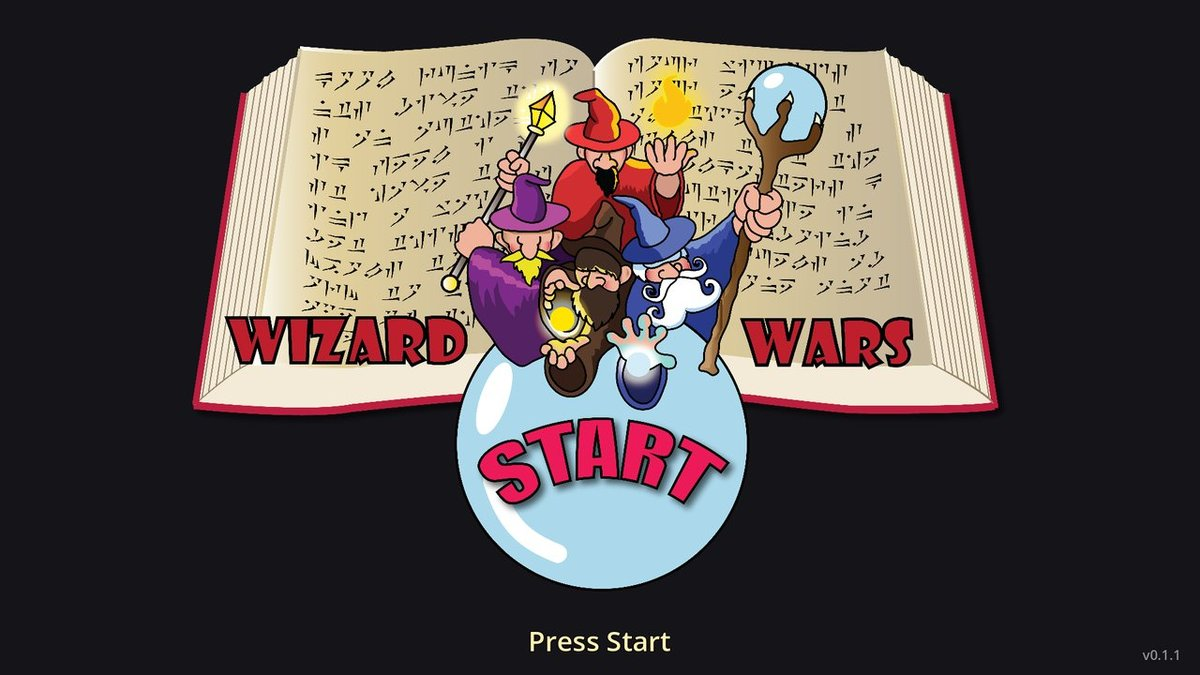
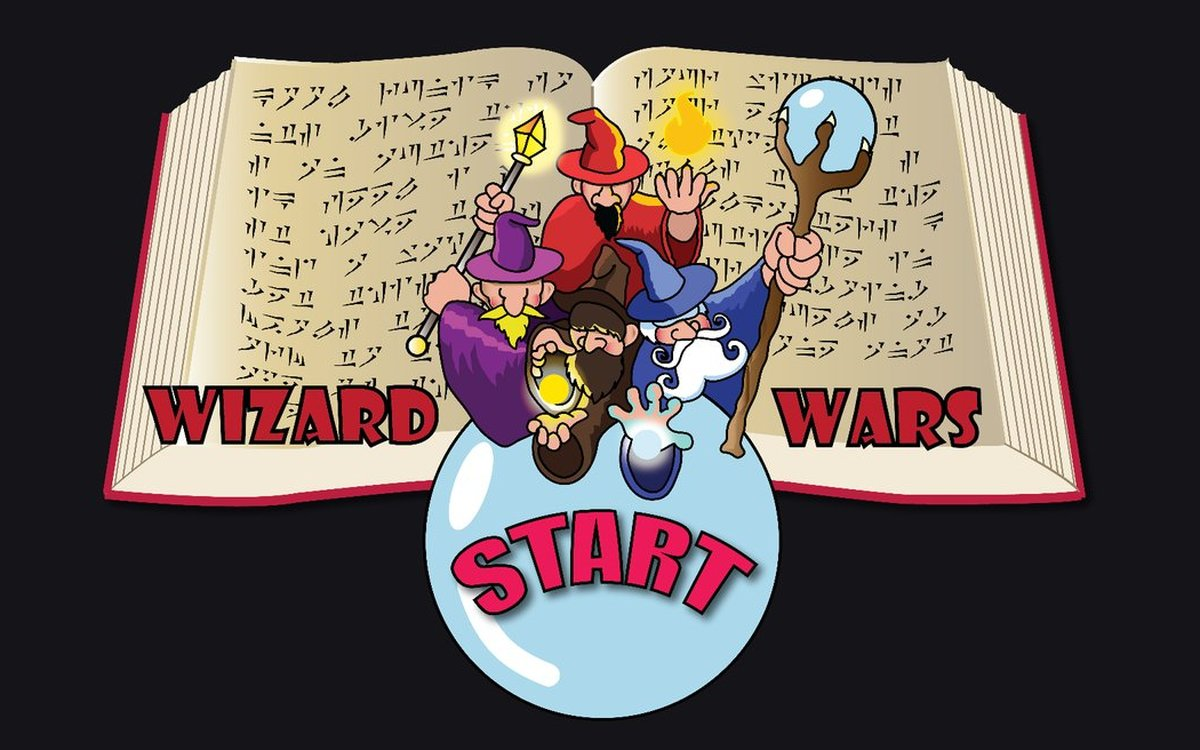
Even project cards, tighter copy, and a big Submit your fighter on DrawFight's page
- Every card's tagline and description cut to a line or two, and the buttons pinned to the
  bottom, so cards in a row are the same height with their buttons lined up.
- "Submit your fighter" moves off the DrawFight card to its game page: a second big button
  under Download, and a notebook-paper "Be in the game!" band with a link to the drawing
  guide. Driven by a new `feature` field on a game.
- Wizard Wars' title picture is cropped above its "Press Start" text.

diff --git a/src/data/projects.ts b/src/data/projects.ts
@@ -58,6 +58,16 @@ export interface GameInfo {
   platform?: string
   /** Not downloadable yet: no download button or release history, a "Coming soon" note instead. */
   comingSoon?: boolean
+  /** A second headline action for the game page: a big button under Download, and a band
+   *  explaining it below the intro. */
+  feature?: {
+    title: string
+    text: string
+    href: string
+    label: string
+    emoji: string
+    more?: { href: string; label: string }
+  }
 }
 
 export const gamePath = (project: Project) => `/games/${project.id}`
@@ -71,14 +81,23 @@ export const projects: Project[] = [
     name: 'DrawFight',
     tagline: "A platform fighter where every character is a kid's drawing.",
     description:
-      'A local-multiplayer platform fighter with Smash-style percent, knockback, and ' +
-      'stocks. Every fighter starts as a drawing on paper, cut into body parts and ' +
-      'rigged to a shared skeleton, so the original linework is what moves on screen.',
+      'Smash-style percent, knockback and stocks, with every fighter cut from a paper ' +
+      'drawing and animated line for line.',
     tech: ['Godot 4.5', 'C#', '.NET 9'],
     repoUrl: 'https://github.com/eclancy/DrawFight',
     game: {
       repo: 'DrawFight',
       players: '1–2 players, local',
+      feature: {
+        title: 'Be in the game!',
+        text:
+          'Draw your own fighter on paper, snap a photo and send it in. Fighters sent in ' +
+          'can end up in DrawFight: Triguy got in that way.',
+        href: '/draw',
+        label: 'Submit your fighter',
+        emoji: '✏',
+        more: { href: '/draw/guide', label: 'Read the drawing guide first' },
+      },
       about: [
         'You draw a character on paper. It gets cut into pieces, hung on a skeleton, and ' +
           "put in a fighting game. Then it runs, jumps, and knocks other people's drawings " +
@@ -96,11 +115,6 @@ export const projects: Project[] = [
         href: 'https://ecec.dev/drawfight/download',
         label: 'Download & play',
         emoji: '🎮',
-      },
-      {
-        href: 'https://ecec.dev/draw',
-        label: 'Submit your fighter!',
-        emoji: '✏',
       },
     ],
     images: [
@@ -133,11 +147,10 @@ export const projects: Project[] = [
   {
     id: 'drawpets',
     name: 'DrawPets',
-    tagline: 'Draw a creature, part by part, then watch it come alive and look after it.',
+    tagline: 'Draw a creature, then watch it come alive.',
     description:
-      'A virtual-pet game where every pet is a creature a kid drew inside the game, one ' +
-      'part at a time. Legs step, tails wag and eyes blink because of the parts it has, ' +
-      'and then you feed it, play with it, decorate its home and give it a bath.',
+      'A virtual pet you draw part by part, then feed, play with and give a home of its ' +
+      'own.',
     tech: ['Godot 4.5', 'GDScript', 'Android'],
     game: {
       repo: 'DrawPets',
@@ -186,11 +199,10 @@ export const projects: Project[] = [
   {
     id: 'wizard-survivors',
     name: 'Wizard Survivors',
-    tagline: 'A 2D roguelite auto-shooter built in Godot 4 with C#.',
+    tagline: 'A roguelite auto-shooter in the Vampire Survivors mold.',
     description:
-      'A fast-paced survival game inspired by Vampire Survivors. Choose from 30 elemental ' +
-      'spells and upgrades to shape your wizard, then survive increasingly difficult waves ' +
-      'of enemies.',
+      'Build your wizard from 30 spells and survive the horde. Every sprite and sound is ' +
+      'made by code.',
     tech: ['Godot 4.5', 'C#', '.NET 9'],
     repoUrl: 'https://github.com/eclancy/WizardSurvivors',
     game: {
@@ -239,11 +251,10 @@ export const projects: Project[] = [
   {
     id: 'wizard-wars',
     name: 'Wizard Wars',
-    tagline: 'A local multiplayer wizard battle arena for up to 4 players.',
+    tagline: 'A wizard battle arena for up to four players.',
     description:
-      'A local party game for up to four players. Choose a wizard and battle with fire, ' +
-      'ice, earth, or lightning attacks across several arena stages. Each element can ' +
-      'counter another, rewarding quick decisions and teamwork.',
+      'Fire, frost, earth or lightning: be the last wizard standing, or team up in Red ' +
+      'vs Blue.',
     tech: ['Godot 4.5', 'C#', '.NET 9'],
     repoUrl: 'https://github.com/eclancy/WizardWars',
     game: {
@@ -292,10 +303,9 @@ export const projects: Project[] = [
   {
     id: 'erics-miniatures',
     name: "Eric's Miniatures",
-    tagline: 'A personal arts & crafts showcase site.',
+    tagline: 'A showcase for hand-painted miniatures.',
     description:
-      'A website that shares hand-painted miniatures and other handmade art projects. ' +
-      'Built with React, TypeScript, Material UI, and SASS.',
+      'Painted miniatures, custom terrain and other handmade art, on a site of its own.',
     tech: ['React', 'TypeScript', 'Material UI', 'SASS'],
     repoUrl: 'https://github.com/eclancy/EricsMiniatures',
     liveUrl: 'https://ericsminiatures.com',

diff --git a/src/pages/GamePage.tsx b/src/pages/GamePage.tsx
@@ -88,9 +88,6 @@ export function GamePage({ project }: { project: Project & { game: GameInfo } })
   const shots = images.slice(1)
   const [expanded, setExpanded] = useState<number | null>(null)
   const latest = releases.state === 'ok' ? releases.list[0] : undefined
-  const extras = (project.callsToAction ?? []).filter(
-    (c) => !c.href.endsWith('/download'),
-  )
 
   useEffect(() => {
     document.title = `${project.name} | ECEC`
@@ -171,16 +168,25 @@ export function GamePage({ project }: { project: Project & { game: GameInfo } })
                     : ' '}
               </p>
             )}
-            {extras.map((cta) => (
+            {game.feature && (
               <a
-                key={cta.href}
-                href={cta.href}
-                className="inline-flex w-fit items-center gap-2 rounded-lg border border-cyan-400/60 px-3 py-2 text-sm font-medium text-cyan-200 transition hover:border-cyan-300 hover:bg-cyan-400/10 focus-visible:outline focus-visible:outline-2 focus-visible:outline-offset-2 focus-visible:outline-cyan-400"
+                href={game.feature.href}
+                className="ecec-cta-alt group flex items-center justify-center gap-3 rounded-xl px-5 py-4 text-lg font-extrabold tracking-wide text-white transition hover:-translate-y-0.5 hover:scale-[1.02] focus-visible:outline focus-visible:outline-2 focus-visible:outline-offset-2 focus-visible:outline-cyan-300 sm:max-w-sm"
               >
-                {cta.emoji && <span aria-hidden="true">{cta.emoji}</span>}
-                {cta.label} →
+                <span aria-hidden="true" className="ecec-cta-emoji text-2xl">
+                  {game.feature.emoji}
+                </span>
+                <span className="drop-shadow-[0_1px_2px_rgba(0,0,0,0.5)]">
+                  {game.feature.label}
+                </span>
+                <span
+                  aria-hidden="true"
+                  className="text-xl transition-transform group-hover:translate-x-1"
+                >
+                  →
+                </span>
               </a>
-            ))}
+            )}
           </div>
           <ImageCarousel
             images={images}
@@ -188,6 +194,36 @@ export function GamePage({ project }: { project: Project & { game: GameInfo } })
             className="rounded-2xl border border-slate-800 shadow-2xl shadow-violet-950/40"
           />
         </section>
+
+        {game.feature && (
+          <section
+            aria-labelledby="feature-heading"
+            className="ecec-paper mb-12 flex flex-col items-start gap-5 rounded-2xl py-8 pl-12 pr-7 text-slate-900 shadow-2xl shadow-black/40 sm:flex-row sm:items-center sm:justify-between sm:pl-14"
+          >
+            <div className="max-w-xl">
+              <h2 id="feature-heading" className="text-3xl font-extrabold">
+                <span aria-hidden="true">{game.feature.emoji}</span> {game.feature.title}
+              </h2>
+              <p className="mt-2 text-base leading-relaxed text-slate-700">
+                {game.feature.text}
+              </p>
+              {game.feature.more && (
+                <a
+                  href={game.feature.more.href}
+                  className="mt-3 inline-block text-sm font-semibold text-blue-700 underline-offset-4 hover:underline"
+                >
+                  {game.feature.more.label} →
+                </a>
+              )}
+            </div>
+            <a
+              href={game.feature.href}
+              className="shrink-0 rounded-md border-[2.5px] border-slate-900 bg-blue-600 px-6 py-4 text-xl font-extrabold text-white shadow-[4px_4px_0_#0f172a] transition hover:-translate-x-px hover:-translate-y-px hover:shadow-[5px_5px_0_#0f172a] active:translate-x-[3px] active:translate-y-[3px] active:shadow-[1px_1px_0_#0f172a] focus-visible:outline focus-visible:outline-[3px] focus-visible:outline-offset-4 focus-visible:outline-yellow-300"
+            >
+              {game.feature.label} →
+            </a>
+          </section>
+        )}
 
         <div className="grid gap-12 border-t border-violet-500/20 pt-12 lg:grid-cols-[3fr_2fr]">
           <section aria-labelledby="about-heading">

diff --git a/src/index.css b/src/index.css
@@ -5,6 +5,20 @@ html {
   scroll-behavior: smooth;
 }
 
+/* Ruled notebook paper with a red margin line, the look of DrawFight's own pages. */
+.ecec-paper {
+  background-color: #f5f6f1;
+  background-image:
+    linear-gradient(
+      90deg,
+      transparent 30px,
+      rgb(232 121 121 / 0.55) 30px,
+      rgb(232 121 121 / 0.55) 32px,
+      transparent 32px
+    ),
+    repeating-linear-gradient(transparent 0 27px, rgb(59 130 246 / 0.18) 27px 28px);
+}
+
 /* The carousel's strip scrolls by swipe or by its arrows, never by a visible scrollbar. */
 .ecec-no-scrollbar {
   scrollbar-width: none;
@@ -88,6 +102,24 @@ html {
     ecec-cta-glow 2.4s ease-in-out infinite;
 }
 
+/* A second headline action beside .ecec-cta: same motion, cooler colours, so the two read as
+   a pair without blurring together. */
+.ecec-cta-alt {
+  background-image: linear-gradient(
+    110deg,
+    #0891b2 0%,
+    #10b981 30%,
+    #2563eb 60%,
+    #0891b2 100%
+  );
+  background-size: 250% 100%;
+  animation:
+    ecec-cta-shift 7s linear infinite,
+    ecec-cta-glow 2.8s ease-in-out infinite;
+}
+
+.ecec-cta-alt:hover .ecec-cta-emoji,
+.ecec-cta-alt:focus-visible .ecec-cta-emoji,
 .ecec-cta:hover .ecec-cta-emoji,
 .ecec-cta:focus-visible .ecec-cta-emoji {
   animation: ecec-cta-scribble 600ms ease-in-out infinite;

diff --git a/public/wizard-wars/download/index.html b/public/wizard-wars/download/index.html
@@ -23,7 +23,7 @@
       content="https://ecec.dev/wizard-wars/download/title-screen.jpg"
     />
     <meta property="og:image:width" content="1200" />
-    <meta property="og:image:height" content="675" />
+    <meta property="og:image:height" content="750" />
     <meta property="og:image:alt" content="The Wizard Wars title screen." />
     <meta name="twitter:card" content="summary_large_image" />
     <meta name="twitter:title" content="Play Wizard Wars" />
@@ -228,7 +228,7 @@
         class="shot"
         src="/wizard-wars/download/title-screen.jpg"
         width="1200"
-        height="675"
+        height="750"
         alt="The Wizard Wars title screen."
       />
 

diff --git a/src/components/ProjectCard.tsx b/src/components/ProjectCard.tsx
@@ -41,6 +41,8 @@ export function ProjectCard({ project }: ProjectCardProps) {
           </li>
         ))}
       </ul>
+      {/* Takes up any spare height, so the buttons sit at the bottom of every card in a row. */}
+      <div className="-mt-3 flex-1" aria-hidden="true" />
       {project.callsToAction && project.callsToAction.length > 0 && (
         <div className="mt-2 grid gap-3">
           {project.callsToAction.map((cta) => (
